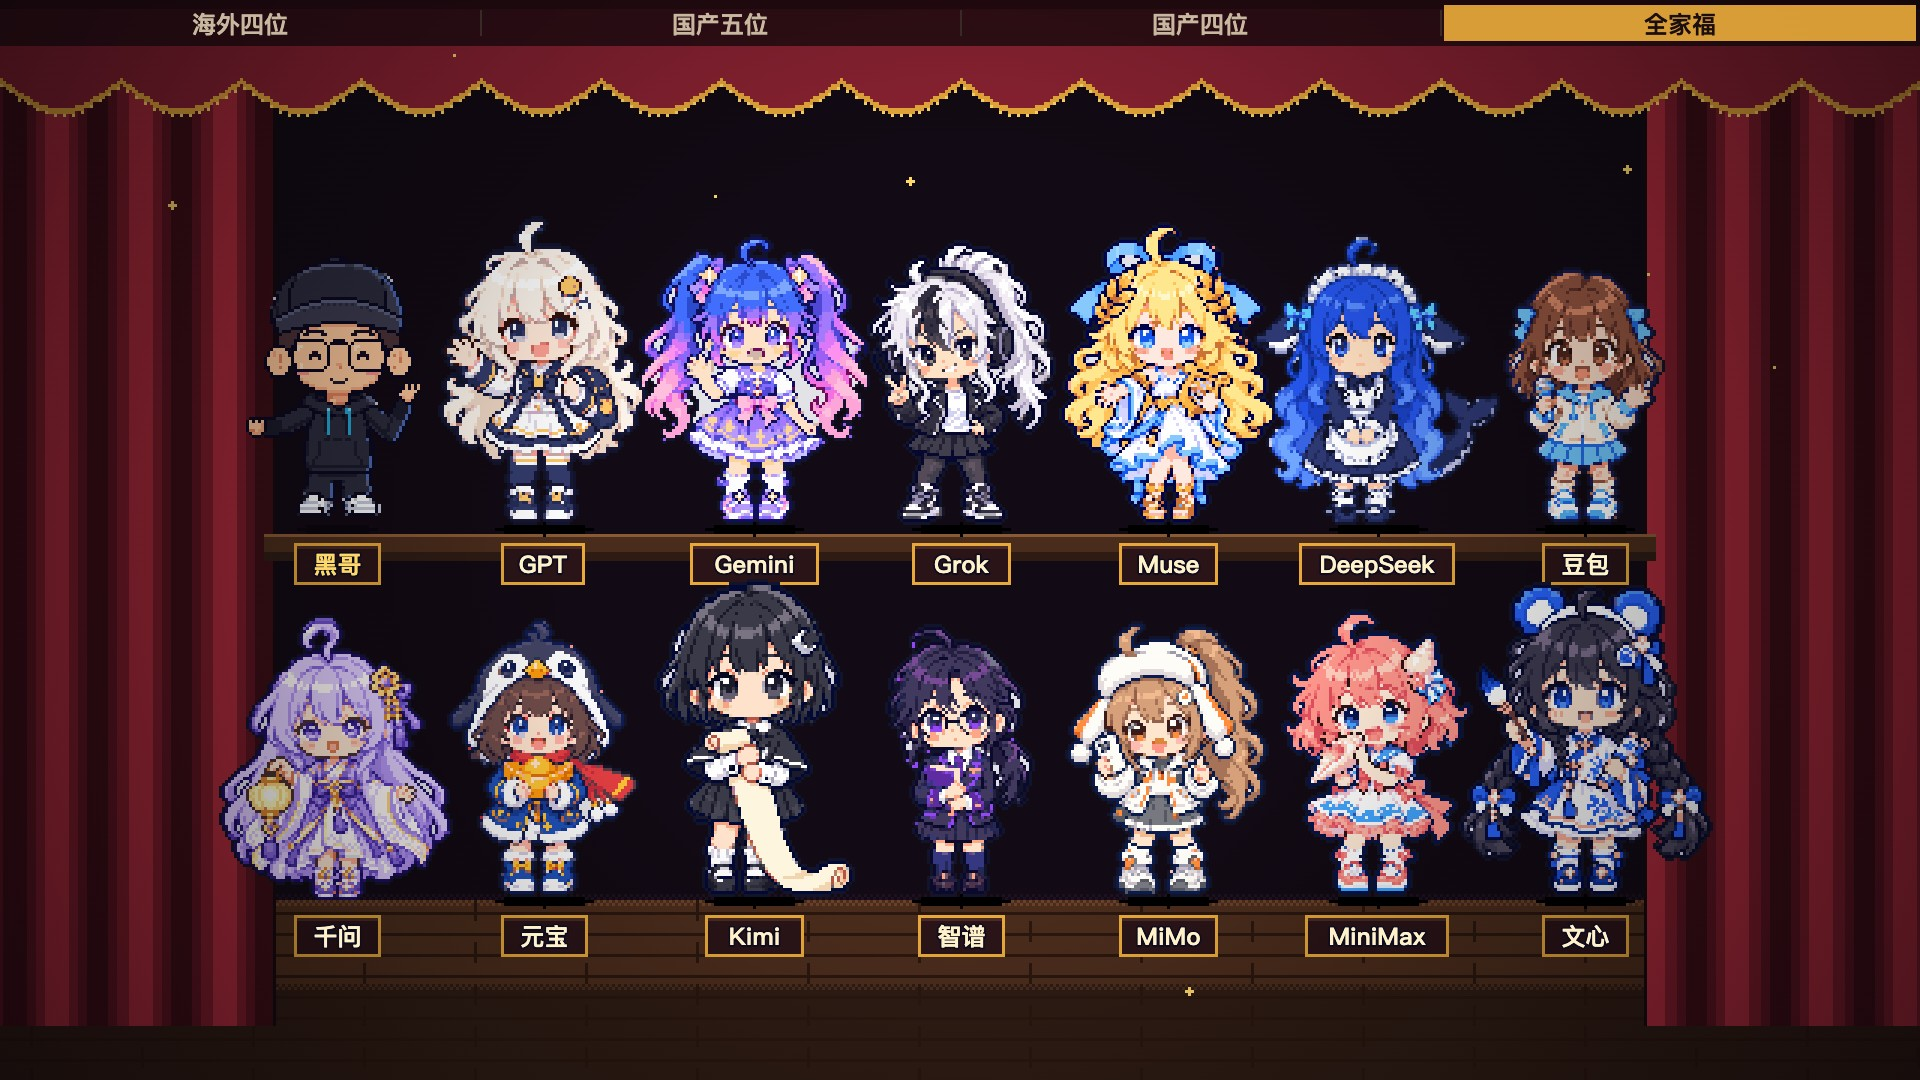
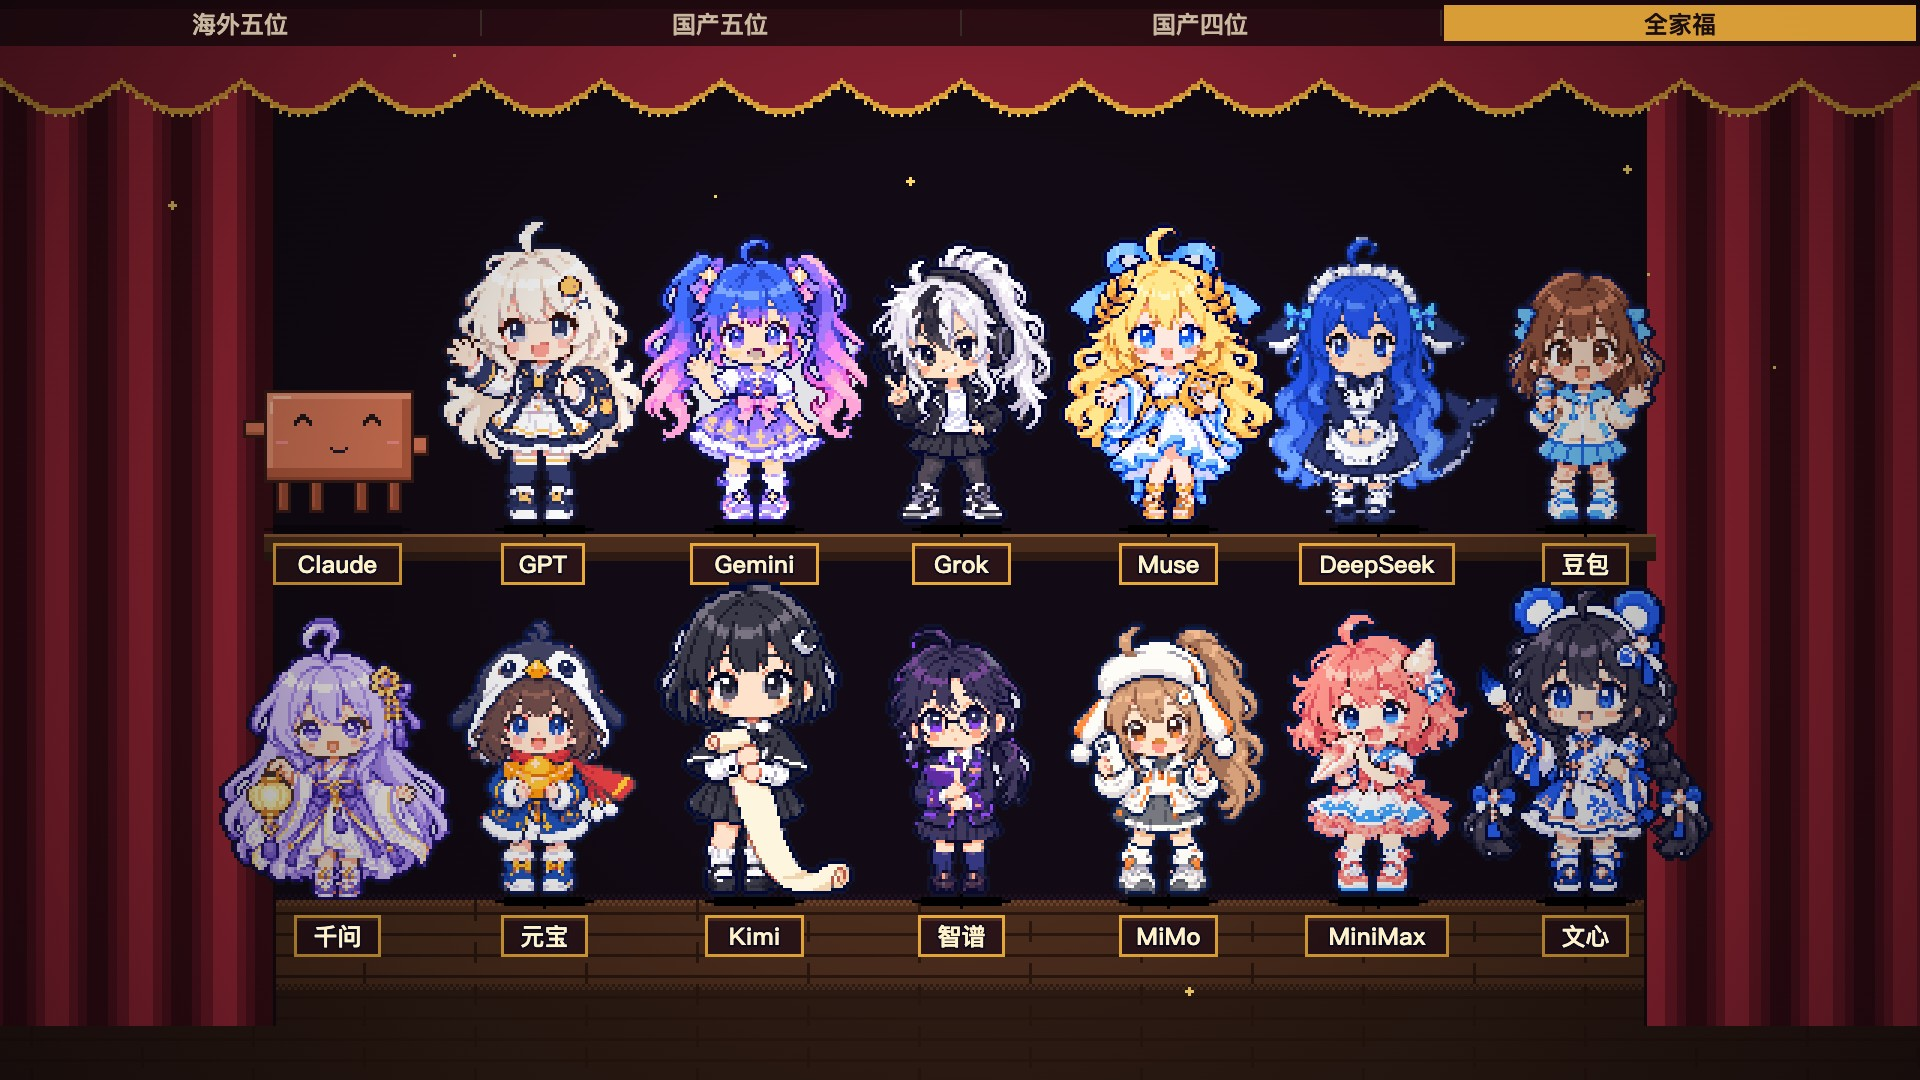
Clawd is Claude in the pixel family photo
Blake: Clawd is already Claude's character, so the 立绘 robot dog is not drawn
in pixels. Clawd joins the overseas shot and takes Claude's place on the family
risers, in the poster's order.

Changed region(s): [[0.125, 0.2444, 0.2188, 0.55], [0.125, 0.0, 0.1562, 0.0306]]

diff --git a/src/pixel/scenes/roster.js b/src/pixel/scenes/roster.js
@@ -1,29 +1,31 @@
 // pixel/scenes/roster.js: 问问黑哥's AI 大模型全家福 in pixels: the locked roster (问问黑哥/IP/模型角色), every model as a
-// Q 萌大头 sprite on 黑哥's grid (models/roster.js, DeepSeek from models/deepseek.js), 黑哥 standing in for the Claude
-// robot dog. Three close shots at the size they act at, then the whole family on risers.
+// Q 萌大头 sprite on 黑哥's grid (models/roster.js, DeepSeek from models/deepseek.js). Claude is Clawd, Anthropic's own
+// character (Blake, 2026-11-01): the 立绘 robot dog is not drawn in pixels. Three close shots at the size they act at,
+// then the whole family on risers in the poster's order (14 models, as on the 全家福 poster).
 //   node render.mjs --page=pixel.html --loop=pxRoster --stills=1.4,3.4,5.4,7.4 --out=out/pixel/roster
 (() => {
   const D = { marks: { a: 0, b: 2, c: 4, all: 6 }, cues: [], len: 8 }, K = pxGame(D);
-  const { shot, curtain, spot, hg, feelT, chip, push, sparkle, GOLDL, CREAM } = K;
-  const NAME = { gpt: 'GPT', gemini: 'Gemini', grok: 'Grok', muse: 'Muse', deepseek: 'DeepSeek', doubao: '豆包', qianwen: '千问',
+  const { shot, curtain, spot, hg, cl, feelT, chip, push, sparkle, GOLDL, CREAM } = K;
+  const NAME = { claude: 'Claude', gpt: 'GPT', gemini: 'Gemini', grok: 'Grok', muse: 'Muse', deepseek: 'DeepSeek', doubao: '豆包', qianwen: '千问',
     yuanbao: '元宝', kimi: 'Kimi', zhipu: '智谱', mimo: 'MiMo', minimax: 'MiniMax', wenxin: '文心' };
   const one = (k, x, y, t, size = 7) => {
     if (k === 'hg') { hg(x, y, { ...feelT('happy', t), poseR: 'wave' }); chip('黑哥', x, y + 12, GOLDL, size); return; }
+    if (k === 'claude') { cl(x, y, feelT('happy', t)); chip('Claude', x, y + 12, CREAM, size); return; }
     modelPx(k, Math.round(x), y, feelT('happy', t + x * .01)); chip(NAME[k], x, y + 12, CREAM, size);
   };
   const row = (t, keys, y = FLOOR) => { const n = keys.length, gap = (PW - 40) / n; keys.forEach((k, i) => { const x = Math.round(20 + gap * (i + .5)); spot(x, t, { w: gap * .9 }); one(k, x, y, t); }); };
   const cam = { in: { type: 'cut' }, cam: push(160, 92, 1.0, 1.0) };
-  shot('a', (lt, t) => { curtain(t, 1); row(t, ['gpt', 'gemini', 'grok', 'muse']); }, cam);
+  shot('a', (lt, t) => { curtain(t, 1); row(t, ['claude', 'gpt', 'gemini', 'grok', 'muse']); }, cam);
   shot('b', (lt, t) => { curtain(t, 1); row(t, ['deepseek', 'doubao', 'qianwen', 'yuanbao', 'kimi']); }, cam);
   shot('c', (lt, t) => { curtain(t, 1); row(t, ['zhipu', 'mimo', 'minimax', 'wenxin']); }, cam);
   shot('all', (lt, t) => {
     curtain(t, 1);
-    const back = ['hg', 'gpt', 'gemini', 'grok', 'muse', 'deepseek', 'doubao'], front = ['qianwen', 'yuanbao', 'kimi', 'zhipu', 'mimo', 'minimax', 'wenxin'];
+    const back = ['claude', 'gpt', 'gemini', 'grok', 'muse', 'deepseek', 'doubao'], front = ['qianwen', 'yuanbao', 'kimi', 'zhipu', 'mimo', 'minimax', 'wenxin'];
     const yb = FLOOR - 124, R = prect; R(88, yb + 2, PW - 176, 6, '#4A2C1C'); R(88, yb + 2, PW - 176, 1, '#8A5A34'); R(88, yb + 8, PW - 176, 3, '#2E1C14');
     const xs = i => Math.round(112 + (PW - 224) * i / 6);              // inside the curtains
     back.forEach((k, i) => one(k, xs(i), yb, t, 8)); front.forEach((k, i) => one(k, xs(i), FLOOR, t, 8));
     sparkle(PW / 2, PH * .4, PW * .45, t, 24);
   }, { in: { type: 'cut' }, res: [640, 360], cam: (lt, t, d) => [320, 176, 1.0] });
   LOOPS.pxRoster = () => {};
-  Object.assign(LOOPS.pxRoster, { len: D.len, film: K.film({ chapters: [['海外四位', 0], ['国产五位', 2], ['国产四位', 4], ['全家福', 6]] }) });
+  Object.assign(LOOPS.pxRoster, { len: D.len, film: K.film({ chapters: [['海外五位', 0], ['国产五位', 2], ['国产四位', 4], ['全家福', 6]] }) });
 })();

diff --git a/src/pixel/models/roster.js b/src/pixel/models/roster.js
@@ -1,6 +1,6 @@
 // pixel/models/roster.js: the rest of 问问黑哥's locked model roster (问问黑哥/IP/模型角色) as Q 萌大头 sprites on 黑哥's grid,
 // beside the pixel DeepSeek (models/deepseek.js). Concepts drawn by Codex after each locked 立绘 in the pixel DeepSeek's
-// style (design/roster, not in git), cut by tools/pixel/roster/build.sh. The Claude robot dog stays out: Clawd plays Claude.
+// style (design/roster, not in git), cut by tools/pixel/roster/build.sh. Claude is Clawd (clawdPx), not the 立绘 robot dog.
 // Cast with modelPx('gpt', x, FLOOR, o); the line-up is pxRoster.
 var SPRITES = window.SPRITES = window.SPRITES || {};
 SPRITES['rsGpt'] = { pal: { 'a': '#12142B', 'b': '#171636', 'c': '#FBF3EA', 'd': '#C9C9D4', 'e': '#333B6B', 'f': '#FEFEFE', 'g': '#242C58', 'h': '#EED6C4', 'i': '#CB8A7C', 'j': '#FEE7D7', 'k': '#C6AAA5', 'l': '#EAB2C3', 'm': '#DED8EA', 'n': '#31110E', 'o': '#EAA660', 'p': '#FCC767', 'q': '#CCAEC9', 'r': '#D46655', 's': '#FD9E91', 't': '#FEBEAF', 'u': '#EA7E77' },

diff --git a/README.md b/README.md
@@ -4,7 +4,7 @@
 
 ![黑哥武馆角色设定表](docs/wuxia/cast-sheet.png)
 
-问问黑哥的 AI 大模型全家福也都有像素版（GPT、Gemini、Grok、Muse、DeepSeek、豆包、千问、元宝、Kimi、智谱、MiMo、MiniMax、文心），见 [src/pixel/models/roster.js](src/pixel/models/roster.js) 和 [docs/roster/](docs/roster/)：
+问问黑哥的 AI 大模型全家福也都有像素版（Claude 由 Clawd 出演，另有 GPT、Gemini、Grok、Muse、DeepSeek、豆包、千问、元宝、Kimi、智谱、MiMo、MiniMax、文心），见 [src/pixel/models/roster.js](src/pixel/models/roster.js) 和 [docs/roster/](docs/roster/)：
 
 ![AI 大模型全家福](docs/roster/04-family.jpg)
 
